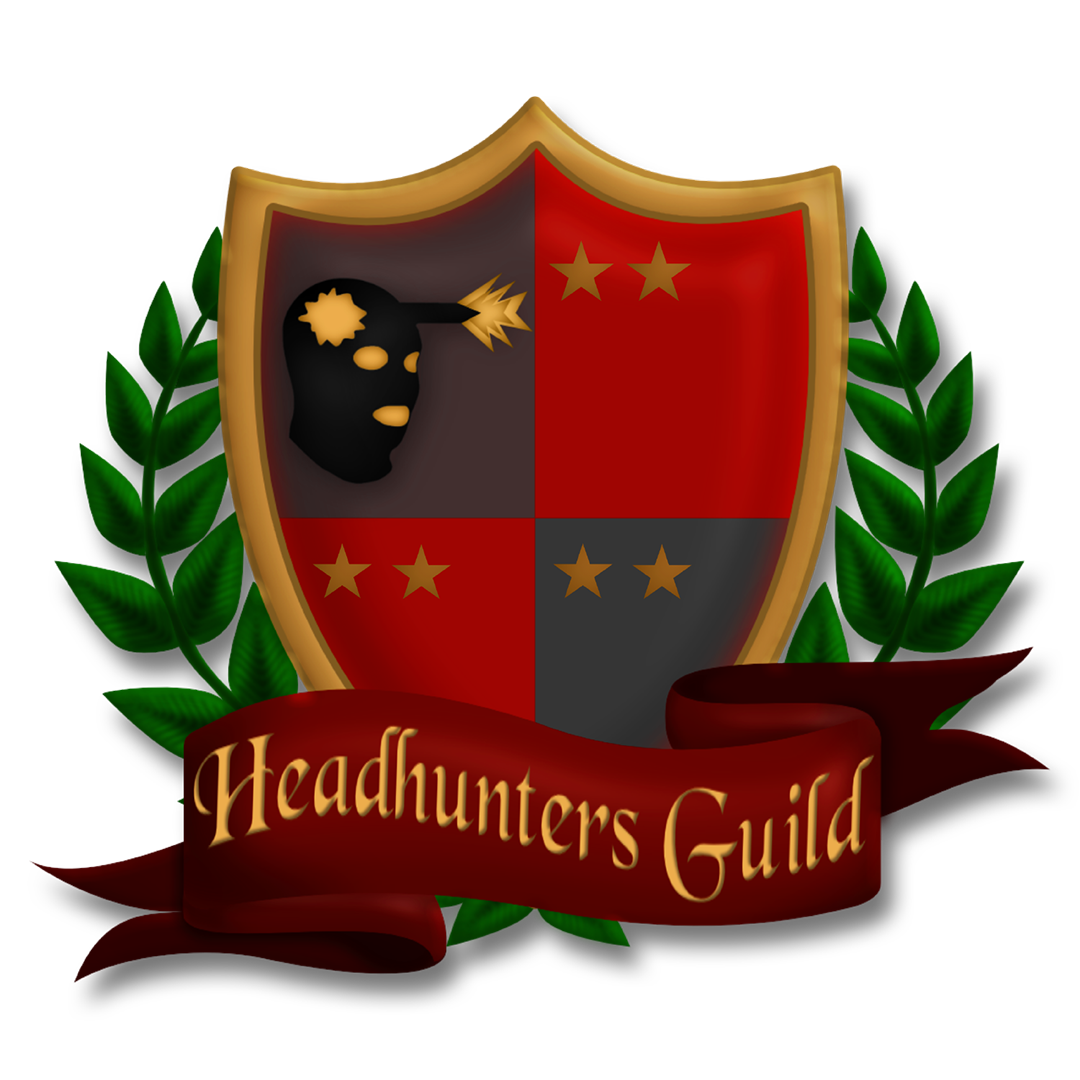
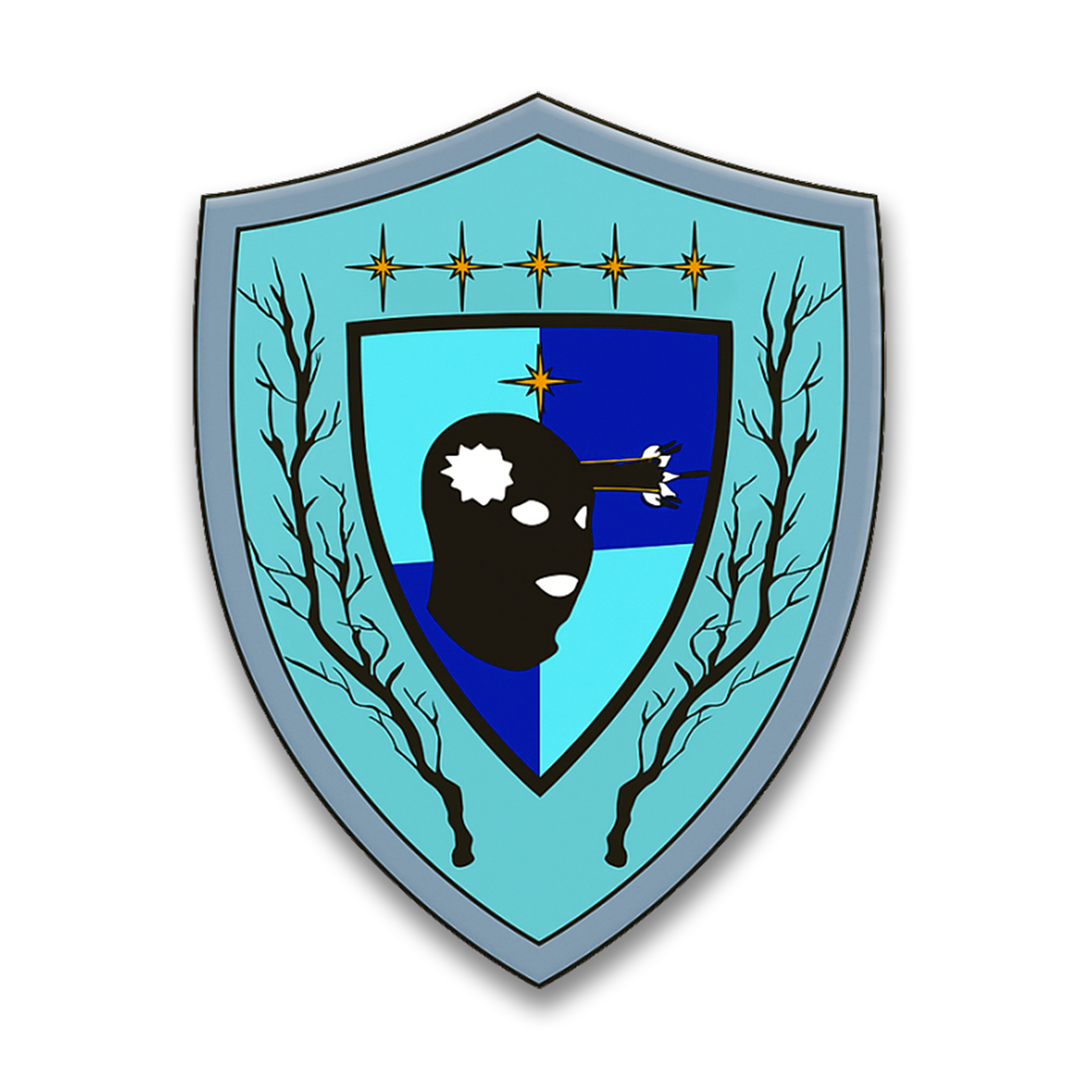
Update Stickers
Forgot AG (I am so sorry) and also forgot  to update HG logos. Will update for Season 20 pending any Franchise changes.

diff --git a/docs/ASSETS.md b/docs/ASSETS.md
@@ -11,6 +11,7 @@ The application supports 22 CSC franchise teams, each with standardized asset co
 ```
 teams/
 ├── ACA/              # The Academics
+├── AG/               # All Good
 ├── ATL/              # Atlantis  
 ├── ATO/              # Automata
 ├── AVI/              # The Aviary
@@ -57,6 +58,7 @@ Each team directory contains up to 8 standardized asset files:
 | ID | Prefix | Full Name | Directory |
 |----|--------|-----------|-----------|
 | 24 | ACA | The Academics | `/teams/ACA/` |
+| 50 | AG  | All Good | `/teams/AG/` |
 | 19 | ATL | Atlantis | `/teams/ATL/` |
 | 11 | ATO | Automata | `/teams/ATO/` |
 | 12 | AVI | The Aviary | `/teams/AVI/` |
@@ -80,11 +82,6 @@ Each team directory contains up to 8 standardized asset files:
 | 56 | WIZ | Counter-Spell | `/teams/WIZ/` |
 
 ### Special Cases
-
-#### Team dB (Dead Beats)
-- **Directory**: `/teams/dB/` (lowercase 'd', uppercase 'B')
-- **Prefix**: `dB` 
-- **Note**: Only team with mixed case prefix
 
 #### Team AVI (The Aviary)
 - **Missing Assets**: TwitterBanner.png, YoutubeBanner.png
@@ -123,6 +120,7 @@ Each team directory contains up to 8 standardized asset files:
 | Team | Desktop | Discord | Profile | Sticker | Shadow | Twitch | Twitter | YouTube |
 |------|---------|---------|---------|---------|--------|--------|---------|---------|
 | ACA | ✅ | ✅ | ✅ | ✅ | ✅ | ✅ | ✅ | ✅ |
+| AG  | ✅ | ✅ | ✅ | ✅ | ✅ | ✅ | ✅ | ✅ |
 | ATL | ✅ | ✅ | ✅ | ✅ | ✅ | ✅ | ✅ | ✅ |
 | ATO | ✅ | ✅ | ✅ | ✅ | ✅ | ✅ | ✅ | ✅ |
 | AVI | ✅ | ✅ | ✅ | ✅ | ✅ | ✅ | ❌ | ❌ |
@@ -134,13 +132,13 @@ Each team directory contains up to 8 standardized asset files:
 | DRG | ✅ | ✅ | ✅ | ✅ | ✅ | ✅ | ✅ | ✅ |
 | FNL | ✅ | ✅ | ✅ | ✅ | ✅ | ✅ | ✅ | ✅ |
 | FRG | ✅ | ✅ | ✅ | ✅ | ✅ | ✅ | ✅ | ✅ |
-| GF | ✅ | ✅ | ✅ | ✅ | ✅ | ✅ | ✅ | ✅ |
+| GF  | ✅ | ✅ | ✅ | ✅ | ✅ | ✅ | ✅ | ✅ |
 | GRN | ✅ | ✅ | ✅ | ✅ | ✅ | ✅ | ✅ | ✅ |
 | H4K | ✅ | ✅ | ✅ | ✅ | ✅ | ✅ | ✅ | ✅ |
-| HG | ✅ | ✅ | ✅ | ✅ | ✅ | ✅ | ✅ | ✅ |
-| HR | ✅ | ✅ | ✅ | ✅ | ✅ | ✅ | ✅ | ✅ |
+| HG  | ✅ | ✅ | ✅ | ✅ | ✅ | ✅ | ✅ | ✅ |
+| HR  | ✅ | ✅ | ✅ | ✅ | ✅ | ✅ | ✅ | ✅ |
 | NAN | ✅ | ✅ | ✅ | ✅ | ✅ | ✅ | ✅ | ✅ |
-| OS | ✅ | ✅ | ✅ | ✅ | ✅ | ✅ | ✅ | ✅ |
+| OS  | ✅ | ✅ | ✅ | ✅ | ✅ | ✅ | ✅ | ✅ |
 | TEE | ✅ | ✅ | ✅ | ✅ | ✅ | ✅ | ✅ | ✅ |
 | UPS | ✅ | ✅ | ✅ | ✅ | ✅ | ✅ | ✅ | ✅ |
 | WIZ | ✅ | ✅ | ✅ | ✅ | ✅ | ✅ | ✅ | ✅ |

diff --git a/README.md b/README.md
@@ -12,7 +12,7 @@ A professional web application for creating custom signature overlays on CSC (Co
 - **Automatic State Persistence**: Your work is automatically saved in browser storage
 
 ### Advanced Features
-- **22 Team Support**: All CSC franchise teams with official assets
+- **23 Team Support**: All CSC franchise teams with official assets including CSC Logo
 - **Real-time Preview**: Instant updates as you modify settings
 - **Keyboard Shortcuts**: Delete (remove signature), Ctrl+E (export)
 - **Toast Notifications**: User feedback for all actions
@@ -81,6 +81,7 @@ The application supports all 22 CSC franchise teams:
 | Team | Prefix | Full Name |
 |------|--------|-----------|
 | ACA | ACA | The Academics |
+| AG  | AG  | All Good |
 | ATL | ATL | Atlantis |
 | ATO | ATO | Automata |
 | AVI | AVI | The Aviary |
